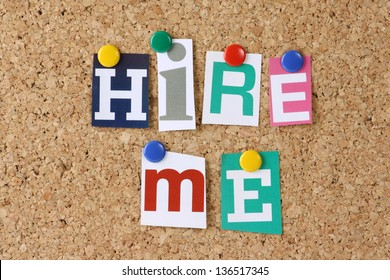
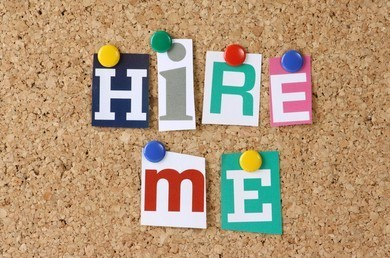
update

diff --git a/ProjetoCV/index.html b/ProjetoCV/index.html
@@ -177,7 +177,7 @@
 </form>
       </div>
       </div>
-      <div class="col-md-7 d-print-none" data-aos="zoom-in" data-aos-delay="100"><img  id="hire" alt="hire"></div>
+      <div class="col-md-7 d-print-none" data-aos="zoom-in" data-aos-delay="100"><img width="600px" id="hire" alt="hire"></div>
     </div>
   </div>
 </div>
